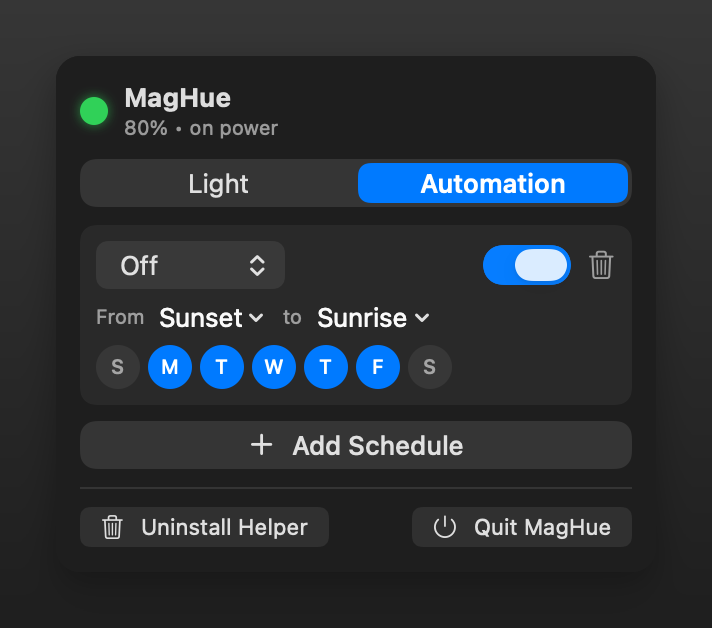
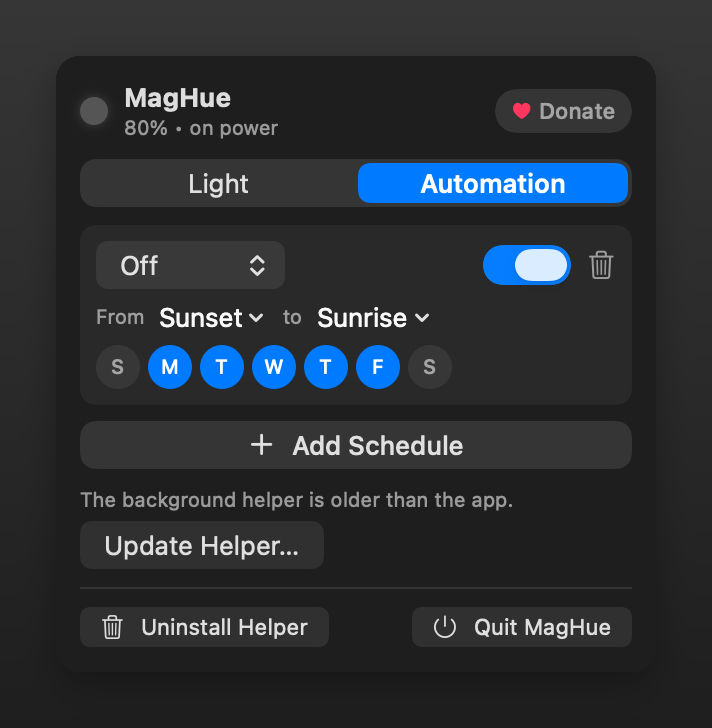
Add a donate button to the popover header
Sits across from the title, small enough to ignore. Opens PayPal with the
donation recorded against MagHue.

Claude-Session: https://claude.ai/code/session_013zp9B3h1FMbFhBCKejx4ZM

diff --git a/Sources/MagHue/PopoverView.swift b/Sources/MagHue/PopoverView.swift
@@ -1,7 +1,15 @@
+import AppKit
 import MagHueCore
 import SwiftUI
 
 struct PopoverView: View {
+    /// PayPal donation link. The account (`DHQUELMQRQW46`) is Peter Levi's,
+    /// the same one Variety collects donations through; only the item name
+    /// differs, so a donation made here is recorded against MagHue.
+    private static let donateURL = URL(string:
+        "https://www.paypal.com/donate/?business=DHQUELMQRQW46&no_recurring=0"
+        + "&item_name=MagHue&currency_code=EUR")!
+
     @ObservedObject var settings: Settings
     @ObservedObject var helper: HelperManager
     @ObservedObject var monitor: BatteryMonitor
@@ -70,7 +78,31 @@ struct PopoverView: View {
                     .foregroundStyle(.secondary)
             }
             Spacer()
+            donateButton
         }
+    }
+
+    /// Sits across from the title: small enough to ignore, clear enough to
+    /// find. Opens the PayPal page in the browser.
+    private var donateButton: some View {
+        Button {
+            NSWorkspace.shared.open(Self.donateURL)
+        } label: {
+            HStack(spacing: 3) {
+                Image(systemName: "heart.fill")
+                    .font(.system(size: 9))
+                    .foregroundStyle(.pink)
+                Text("Donate")
+                    .font(.system(size: 11, weight: .medium))
+                    .foregroundStyle(.secondary)
+            }
+            .padding(.horizontal, 8)
+            .padding(.vertical, 4)
+            .background(Capsule().fill(Color.primary.opacity(0.12)))
+            .contentShape(Capsule())
+        }
+        .buttonStyle(.plain)
+        .help("Support MagHue with a donation")
     }
 
     private var installPrompt: some View {
